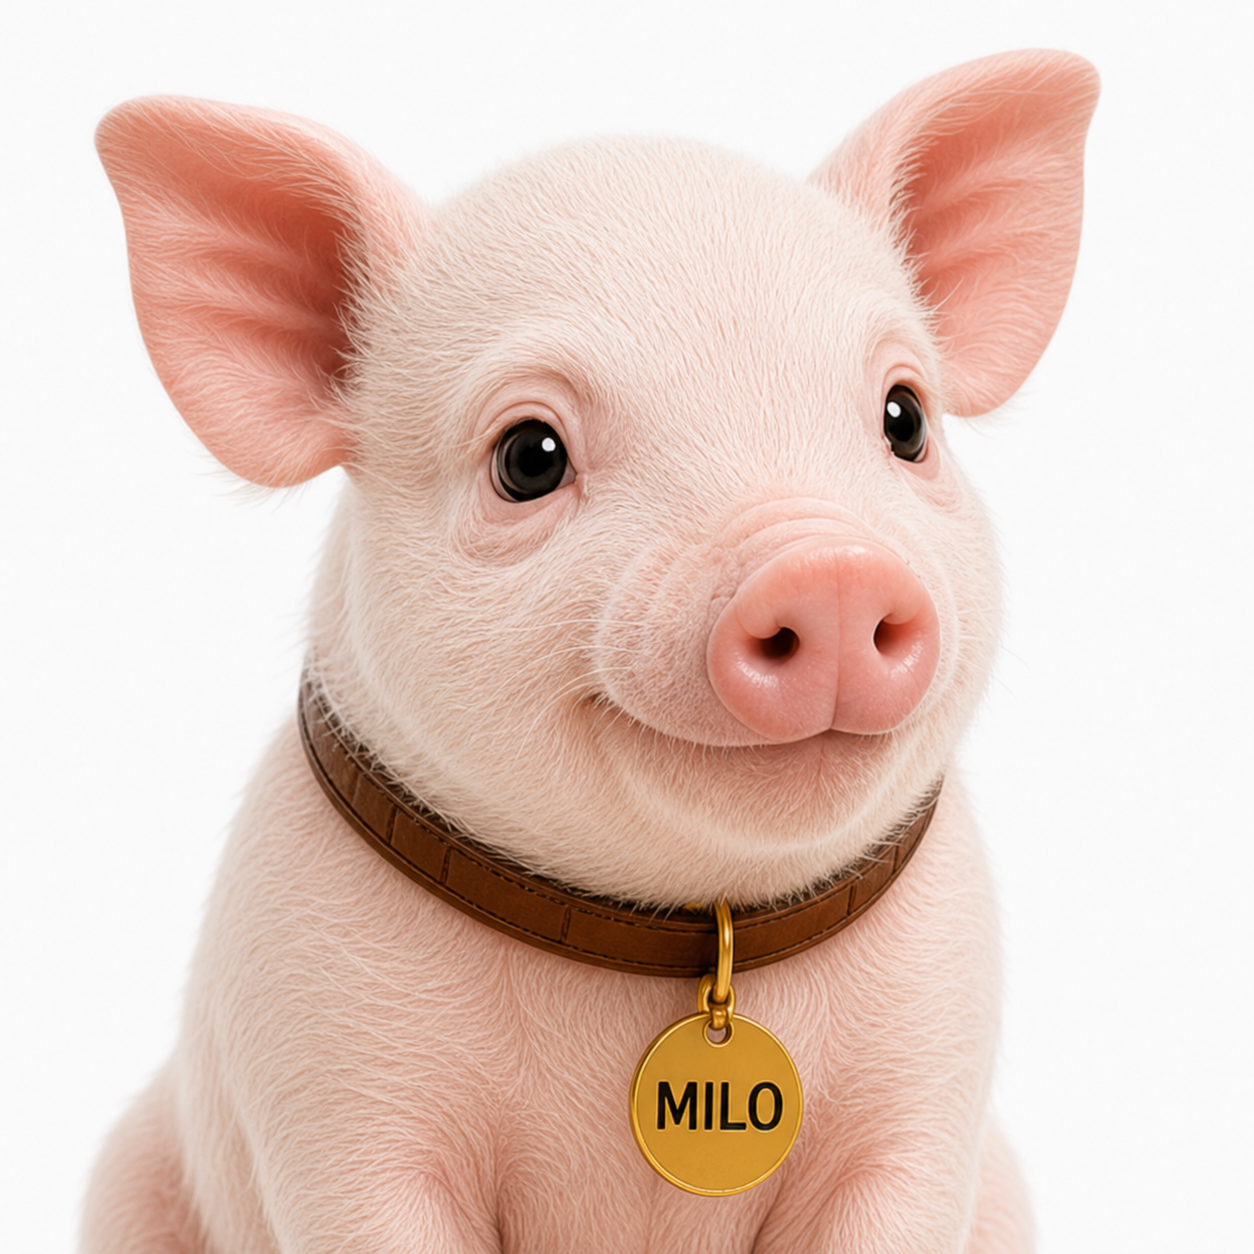
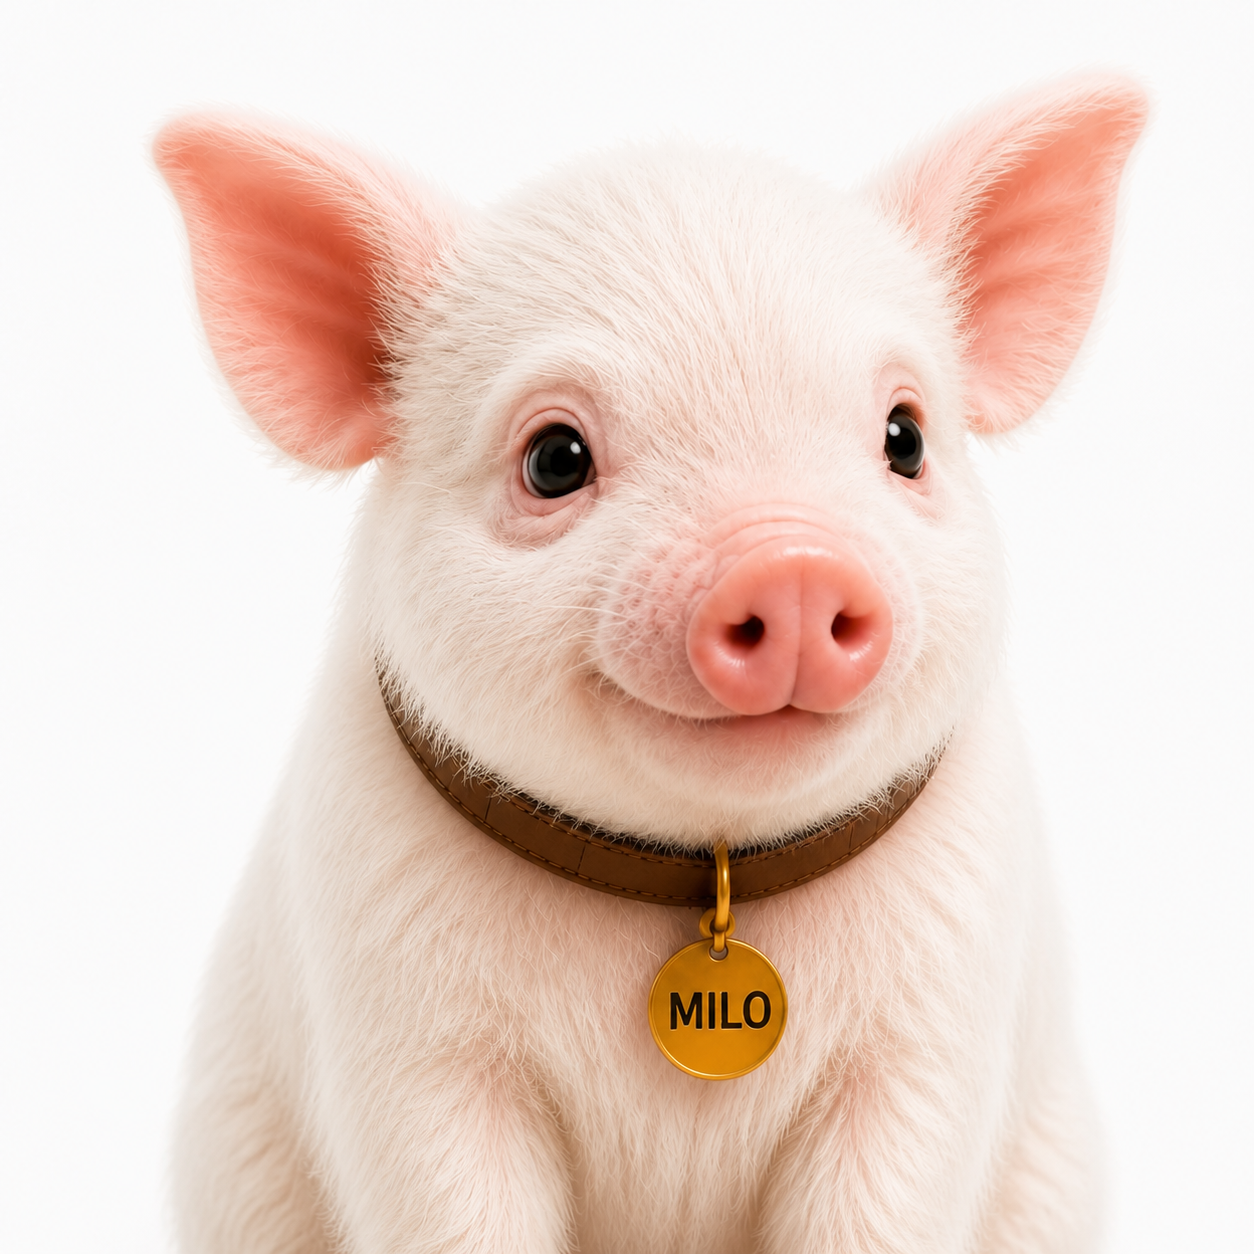
update

diff --git a/components/CharacterDetailPage.tsx b/components/CharacterDetailPage.tsx
@@ -27,7 +27,7 @@ export default function CharacterDetailPage({ character }: { character: Characte
     <section className="px-6 py-20"><div className="mx-auto max-w-7xl"><Heading eyebrow="Profile" title="Personality & Abilities" /><div className="mt-8 grid gap-5 md:grid-cols-3">{character.personality.map((item) => <article key={item} className="rounded-3xl border border-[#eadfce] bg-white p-6 shadow-sm"><h3 className="text-2xl font-black text-[#2b2119]">{item}</h3><p className="mt-3 leading-7 text-[#76685d]">A defining trait that guides {character.name}&apos;s choices, expressions, and relationships.</p></article>)}</div>{character.favorites.length || character.abilities.length ? <div className="mt-5 grid gap-5 md:grid-cols-2">{character.favorites.length ? <article className="rounded-3xl border border-[#eadfce] bg-white p-7"><h3 className="text-2xl font-black text-[#2b2119]">Favorite Things</h3><ul className="mt-4 space-y-2 text-[#76685d]">{character.favorites.map(item => <li key={item}>- {item}</li>)}</ul></article> : null}{character.abilities.length ? <article className="rounded-3xl border border-[#eadfce] bg-white p-7"><h3 className="text-2xl font-black text-[#2b2119]">Abilities</h3><ul className="mt-4 space-y-2 text-[#76685d]">{character.abilities.map(item => <li key={item}>- {item}</li>)}</ul></article> : null}</div> : null}</div></section>
     <section className="border-y border-[#eadfce] bg-white px-6 py-20"><div className="mx-auto max-w-7xl"><Heading eyebrow="Appearance" title="Visual Identity" /><p className="mt-6 max-w-3xl text-lg leading-8 text-[#76685d]">{character.appearance}</p><div className="mt-8 flex gap-4">{character.colors.map(color => <div key={color} className="h-20 flex-1 rounded-2xl border border-[#eadfce] shadow-sm" style={{ backgroundColor: color }}><span className="sr-only">Color {color}</span></div>)}</div></div></section>
     <section className="px-6 py-20"><div className="mx-auto max-w-7xl"><Heading eyebrow="Production" title="Production & Prompt Notes" /><div className="mt-8 grid gap-5 md:grid-cols-2"><article className="rounded-3xl border border-[#eadfce] bg-white p-7 shadow-sm"><h3 className="text-2xl font-black text-[#2b2119]">Production Notes</h3><p className="mt-4 leading-8 text-[#76685d]">{character.productionNotes}</p></article><article className="rounded-3xl border border-[#eadfce] bg-[#2b2119] p-7 shadow-xl"><h3 className="text-2xl font-black text-white">Prompt Notes</h3><p className="mt-4 leading-8 text-[#eadfce]">{character.promptNotes}</p></article></div></div></section>
-    {character.gallery.length ? <section className="border-y border-[#eadfce] bg-white px-6 py-20"><div className="mx-auto max-w-7xl"><Heading eyebrow="Gallery" title="Studio Portrait Studies" /><div className="mt-8 grid gap-5 md:grid-cols-3">{character.gallery.map((study) => <figure key={study.label} className="overflow-hidden rounded-3xl border border-[#eadfce] bg-[#fffaf4] p-4"><div className="relative aspect-square overflow-hidden rounded-2xl bg-white"><Image src={study.image} alt={study.label === "Hero portrait" && character.imageAlt ? character.imageAlt : `${character.name} ${study.label}`} fill sizes="(min-width: 768px) 30vw, 100vw" className={study.fit === "cover" ? "object-cover" : "object-contain p-3"} /></div><figcaption className="pt-4 text-sm font-bold text-[#6f4e37]">{study.label}</figcaption></figure>)}</div></div></section> : null}
+    {character.gallery.length ? <section className="border-y border-[#eadfce] bg-white px-6 py-20"><div className="mx-auto max-w-7xl"><Heading eyebrow="Gallery" title="Studio Portrait Studies" /><div className="mt-8 grid gap-5 md:grid-cols-3">{character.gallery.map((study) => <figure key={study.label} className="overflow-hidden rounded-3xl border border-[#eadfce] bg-[#fffaf4] p-4"><div className="relative aspect-square overflow-hidden rounded-2xl bg-white"><Image src={study.image} alt={study.imageAlt ?? (study.label === "Hero portrait" && character.imageAlt ? character.imageAlt : `${character.name} ${study.label}`)} fill sizes="(min-width: 768px) 30vw, 100vw" className={study.fit === "cover" ? "object-cover" : "object-contain p-3"} /></div><figcaption className="pt-4 text-sm font-bold text-[#6f4e37]">{study.label}</figcaption></figure>)}</div></div></section> : null}
     <section className="px-6 py-20"><div className="mx-auto max-w-7xl"><Heading eyebrow="Future Stories" title="What Comes Next" /><p className="mt-6 max-w-3xl text-lg leading-8 text-[#76685d]">{character.futureStories}</p><div className="mt-10 grid gap-5 md:grid-cols-3">{related.map(item => <Link key={item.slug} href={`/characters/${item.slug}`} className="rounded-3xl border border-[#eadfce] bg-white p-6 shadow-sm transition hover:-translate-y-1 hover:shadow-xl"><p className="text-sm font-black uppercase tracking-[0.2em] text-[#a67c52]">{item.species}</p><h3 className="mt-3 text-3xl font-black text-[#2b2119]">{item.name}</h3><p className="mt-3 text-[#76685d]">{item.tagline}</p></Link>)}</div></div></section>
     <section className="px-6 pb-24"><div className="mx-auto flex max-w-7xl flex-col gap-6 rounded-[40px] bg-[#6f4e37] p-8 text-white shadow-xl md:flex-row md:items-center md:justify-between md:p-12"><div><p className="text-sm font-black uppercase tracking-[0.3em] text-[#e5c9a8]">FourFeetz Universe</p><h2 className="mt-3 text-4xl font-black">See the characters in motion.</h2></div><Link href={featuredShorts[0] ? `/shorts/${featuredShorts[0].slug}` : "/works/haru-first-journey"} className="w-fit rounded-full bg-white px-7 py-4 font-black text-[#6f4e37]">{featuredShorts[0] ? `Watch ${featuredShorts[0].title}` : "Explore the featured film"}</Link></div></section>
     {featuredShorts.length ? (

diff --git a/components/korean/KoreanPages.tsx b/components/korean/KoreanPages.tsx
@@ -171,6 +171,7 @@ export function KoreanCharacterDetail({ slug }: { slug: string }) {
   const hasPublishedMedia = !["milo", "oli", "feni", "hori"].includes(slug);
   const displayName = ko.displayName ?? item.name;
   const portrait = item.gallery[0]?.image;
+  const miloReferenceStudies = slug === "milo" ? item.gallery.slice(1) : [];
   const characterSchema = {
     "@context": "https://schema.org",
     "@type": "Thing",
@@ -182,6 +183,7 @@ export function KoreanCharacterDetail({ slug }: { slug: string }) {
   };
   return <main><script type="application/ld+json" dangerouslySetInnerHTML={{ __html: JSON.stringify(characterSchema).replace(/</g, "\\u003c") }} /><section className="mx-auto grid max-w-7xl gap-10 px-6 py-16 md:grid-cols-2 md:items-center"><div><p className="text-sm font-black uppercase tracking-[0.28em] text-[#a67c52]">Original Character</p><h1 className="mt-4 text-6xl font-black text-[#2b2119] md:text-7xl">{displayName}</h1><p className="mt-4 text-2xl font-black text-[#6f4e37]">{ko.species}</p><p className="mt-6 text-lg leading-8 text-[#76685d]">{ko.tagline}</p></div><div className="relative aspect-square overflow-hidden rounded-[32px] border border-[#eadfce] bg-[#f2e8dc]">{portrait ? <Image src={portrait} alt={ko.imageAlt} fill priority sizes="(min-width: 768px) 50vw, 100vw" className="object-contain p-5" /> : <div className="flex h-full items-center justify-center p-8 text-center font-black text-[#8a7768]">공식 캐릭터 이미지 준비 중</div>}</div></section>
     <section className="border-y border-[#eadfce] bg-white px-6 py-20"><div className="mx-auto grid max-w-7xl gap-10 md:grid-cols-[0.4fr_0.6fr]"><SectionHeading eyebrow="Character Story" title="캐릭터 이야기" /><div className="space-y-5 text-lg leading-8 text-[#76685d]"><p>{ko.story}</p><p><strong className="text-[#2b2119]">FourFeetz에서의 역할.</strong> {ko.role}</p><p><strong className="text-[#2b2119]">외형적 특징.</strong> {ko.appearance}</p><div className="flex flex-wrap gap-2 pt-3">{ko.personality.map((trait) => <span key={trait} className="rounded-full bg-[#f2e8dc] px-4 py-2 font-bold text-[#6f4e37]">{trait}</span>)}</div></div></div></section>
+    {miloReferenceStudies.length ? <section className="px-6 py-20"><SectionHeading eyebrow="Gallery" title="MILO 캐릭터 레퍼런스" /><div className="mx-auto mt-8 grid max-w-7xl gap-5 md:grid-cols-2">{miloReferenceStudies.map((study) => <figure key={study.label} className="overflow-hidden rounded-3xl border border-[#eadfce] bg-[#fffaf4] p-4"><div className="relative aspect-square overflow-hidden rounded-2xl bg-white"><Image src={study.image} alt={study.koreanImageAlt ?? `MILO ${study.label}`} fill sizes="(min-width: 768px) 45vw, 100vw" className={study.fit === "cover" ? "object-cover" : "object-contain p-3"} /></div><figcaption className="pt-4 text-sm font-bold text-[#6f4e37]">{study.label === "Expression reference" ? "얼굴과 표정 참고" : "옆모습과 실루엣 참고"}</figcaption></figure>)}</div></section> : null}
     <section className="px-6 py-20"><SectionHeading eyebrow="Related Stories" title={hasPublishedMedia ? `${item.name} 관련 콘텐츠` : "FourFeetz 세계 둘러보기"} description={hasPublishedMedia ? "실제로 공개된 영상과 음악에서 캐릭터의 표정, 움직임과 분위기를 확인해 보세요." : `${item.name}가 등장하는 개별 영상과 음악은 아직 공개되지 않았습니다. 현재 공개된 캐릭터와 필름을 먼저 만나보세요.`} /><div className="mx-auto mt-10 grid max-w-7xl gap-5 md:grid-cols-2 lg:grid-cols-3">{ko.relatedContent.map((content) => <Link key={content.href} href={content.href} className={`${cardClass} p-7`}><p className="text-sm font-black text-[#a67c52]">{content.label}</p><h3 className="mt-3 text-2xl font-black text-[#2b2119]">{content.title}</h3><p className="mt-4 leading-7 text-[#76685d]">{content.description}</p><span className="mt-6 inline-flex font-black text-[#6f4e37]">관련 페이지 보기 →</span></Link>)}</div></section>
     <section className="border-y border-[#eadfce] bg-white px-6 py-20"><SectionHeading eyebrow="Character Universe" title="다른 캐릭터 만나기" /><div className="mx-auto mt-10 grid max-w-7xl gap-5 md:grid-cols-2">{relatedCharacters.map(({ item: related, ko: relatedKo }) => <Link key={related.slug} href={`/ko/characters/${related.slug}`} className={`${cardClass} flex items-center gap-5 p-5`}><div className="relative size-28 shrink-0 overflow-hidden rounded-2xl bg-[#fffaf4]"><Image src={`/images/characters/${related.slug}/portrait.png`} alt={relatedKo.imageAlt} fill sizes="112px" className="object-contain p-2" /></div><div><p className="text-sm font-black text-[#a67c52]">{relatedKo.species}</p><h3 className="mt-2 text-2xl font-black text-[#2b2119]">{related.name}</h3><p className="mt-2 leading-7 text-[#76685d]">{relatedKo.tagline}</p></div></Link>)}</div></section>
   </main>;

diff --git a/lib/characterDetails.ts b/lib/characterDetails.ts
@@ -27,6 +27,8 @@ export type CharacterStudy = {
   label: "Hero portrait" | "Expression reference" | "Color and silhouette study";
   image: string;
   fit: "contain" | "cover";
+  imageAlt?: string;
+  koreanImageAlt?: string;
 };
 
 const characterBase: Omit<CharacterDetail, "gallery">[] = [
@@ -57,11 +59,19 @@ export const characterDetails: CharacterDetail[] = characterBase.map((character)
         label: "Expression reference",
         image: `/images/characters/${character.slug}/expression.png`,
         fit: "cover",
+        ...(character.slug === "milo" ? {
+          imageAlt: "Close-up of white mini pig MILO looking slightly to the side with a brown collar and gold name tag",
+          koreanImageAlt: "살짝 옆을 바라보며 갈색 목걸이와 금색 이름표를 한 흰색 미니피그 MILO의 얼굴 클로즈업",
+        } : {}),
       },
       {
         label: "Color and silhouette study",
         image: `/images/characters/${character.slug}/silhouette.png`,
         fit: "contain",
+        ...(character.slug === "milo" ? {
+          imageAlt: "Seated side view of white mini pig MILO showing a curled tail, brown collar, and gold name tag",
+          koreanImageAlt: "말린 꼬리와 갈색 목걸이, 금색 이름표가 보이는 흰색 미니피그 MILO의 앉은 옆모습",
+        } : {}),
       },
     ]),
   ] as CharacterStudy[],
